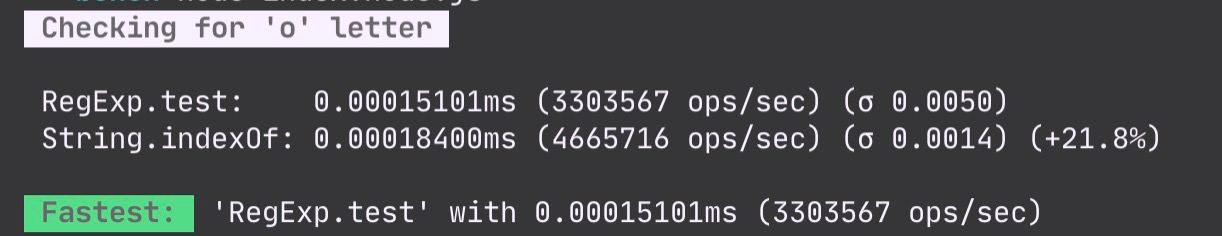
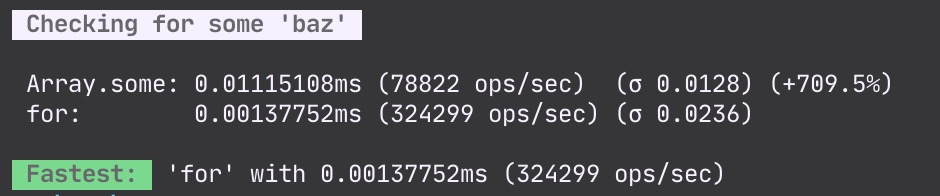
Updates: Readme

diff --git a/README.md b/README.md
@@ -9,40 +9,49 @@ When running a `Benchmark`, each `Case` is run several times.
 ## Installation
 
 ```bash
+# NPM
 npm install yet-another-benchmarking-tool
-# or
+
+# Yarn
 yarn add yet-another-benchmarking-tool
 ```
 
 ## Running
 
-First, import `Yet Another Benchmarking Tool`'s main classes:
+First, configure a suite:
 
 ```js
 import { Benchmark, Suite } from 'yet-another-benchmarking-tool';
-```
 
-Second, configure a suite:
+const testArray = Array(1000).fill('foo');
+testArray[500] = 'baz';
 
-```js
-const suite = new Suite("Checking for 'o' letter", [
-  ['RegExp.test', () => /o/.test('Hello World!')],
-  ['String.indexOf', () => 'Hello World!'.indexOf('o') > -1],
+const suite = new Suite("Checking for some 'baz'", [
+  ['Array.some', () => testArray.some((str) => str === 'baz')],
+  [
+    'for',
+    () => {
+      for (let i = 0, len = testArray.length; i < len; i += 1) {
+        if (testArray[i] === 'baz') return true;
+      }
+      return false;
+    },
+  ],
 ]);
 ```
 
-Then, create a benchmark:
+Second, create a benchmark:
 
 ```js
 const benchmark = new Benchmark([suite]);
 ```
 
-And run:
+Third, run the benchmark:
 
 ```js
 benchmark.run();
 ```
 
-Output:
+Then get the output to the console:
 
 ![output example](./output.jpg)
